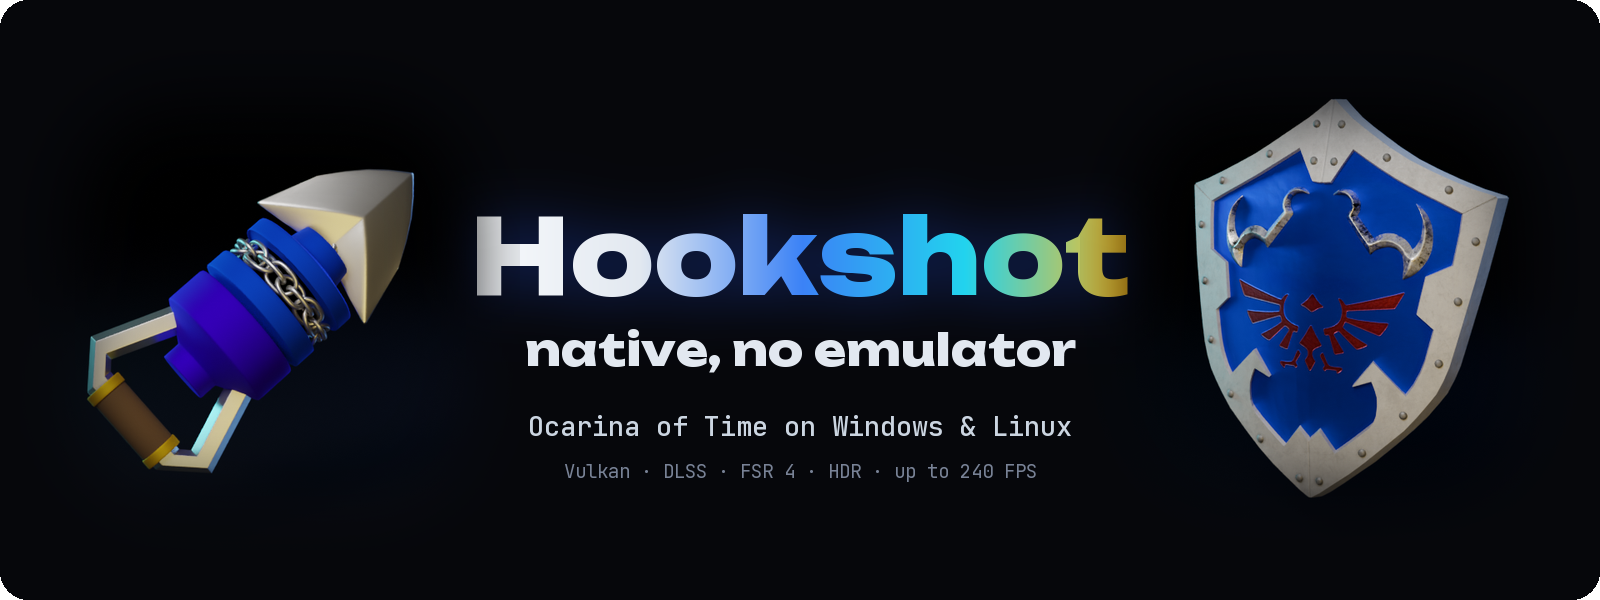
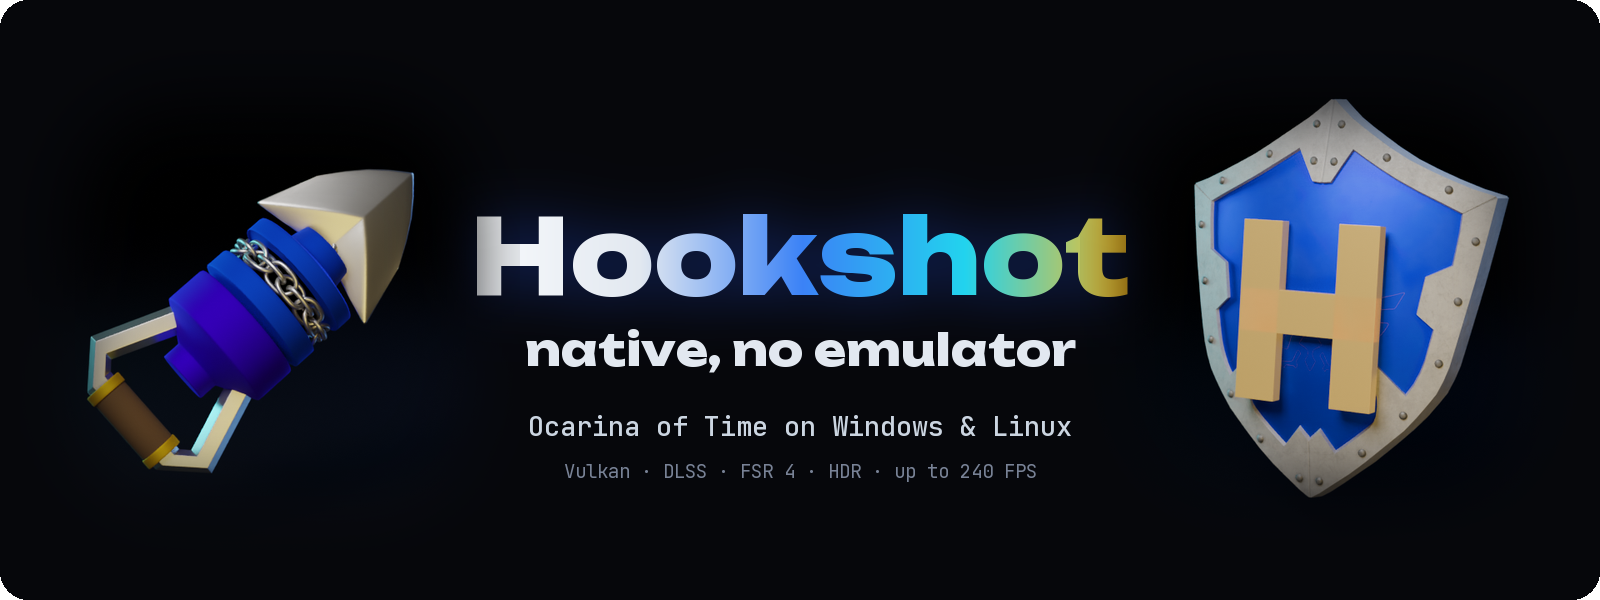
docs(readme): the header's shield carries the project's H, not the crest
The crest is Nintendo's mark: its mesh is left out of the render, its bird painted out of the face's texture in
memory, and a gold H stands in its place.

Changed region(s): [[0.75, 0.24, 0.9375, 0.72]]

diff --git a/scripts/render_emblem.py b/scripts/render_emblem.py
@@ -110,6 +110,54 @@ else:
     # stand it up when it lies flat, its face to the camera (-Y), leaning back a little
     thin = min(range(3), key=lambda i: dims[i])
     root.rotation_euler = (math.radians(90), 0, 0) if thin == 2 else (0, 0, math.radians(90)) if thin == 0 else (0, 0, 0)
+    bpy.context.view_layer.update()
+    # The project's own letter in the crest's place: the crest (and the three triangles in it) is Nintendo's mark, so
+    # its mesh is left out of the render and a gold H stands on the face instead.
+    for o in meshes:
+        if any("Triforce" in (s.material.name if s.material else "") for s in o.material_slots):
+            o.hide_render = True
+    # (the crest's bird is painted on the face's colour texture too: its red is painted over with the face's own blue,
+    #  in memory only, and the face's normal map, which embosses the same bird, is left out)
+    import numpy as np
+    for img in bpy.data.images:
+        if "main_d" in img.name.lower():
+            px = np.array(img.pixels[:], dtype=np.float32).reshape(-1, 4)
+            red = (px[:, 0] > px[:, 2] * 1.15) & (px[:, 0] > 0.2)
+            blue = (px[:, 2] > px[:, 0] * 1.6) & (px[:, 2] > 0.3)
+            if red.any() and blue.any():
+                px[red, :3] = np.median(px[blue, :3], axis=0)
+                img.pixels.foreach_set(px.reshape(-1))
+                img.update()
+                img.pack()   # (so the render takes these pixels, not the file's)
+                print("PAINTED OVER", int(red.sum()), "pixels of", img.name)
+    for mat in bpy.data.materials:
+        if "Base" in mat.name and mat.use_nodes:
+            for link in list(mat.node_tree.links):
+                if link.to_socket.name == "Normal" and link.to_node.type == "BSDF_PRINCIPLED":
+                    mat.node_tree.links.remove(link)
+    shown = [o for o in meshes if not o.hide_render]
+    front = min((o.matrix_world @ Vector(c)).y for o in shown for c in o.bound_box)
+    gold = bpy.data.materials.new("letter")
+    gold.use_nodes = True
+    gb = next(n for n in gold.node_tree.nodes if n.type == "BSDF_PRINCIPLED")
+    gb.inputs["Base Color"].default_value = (0.95, 0.66, 0.16, 1)
+    gb.inputs["Metallic"].default_value = 0.55   # (all metal, it mirrored the black studio and went dark)
+    gb.inputs["Roughness"].default_value = 0.32
+    gb.inputs["Emission Color"].default_value = (0.95, 0.6, 0.12, 1)
+    gb.inputs["Emission Strength"].default_value = 0.25
+    # the H: two posts and a bar, as boxes (a font's extruded outline came out with torn faces)
+    high, wide, stroke, deep = size * 0.44, size * 0.36, size * 0.105, size * 0.035
+    for x, w, h in ((-(wide - stroke) / 2, stroke, high), ((wide - stroke) / 2, stroke, high), (0, wide, stroke)):
+        bpy.ops.mesh.primitive_cube_add(size=1, location=(x, front - deep / 2, -size * 0.03))
+        part = bpy.context.object
+        part.scale = (w, deep, h)
+        bevel = part.modifiers.new("bevel", "BEVEL")
+        bevel.width, bevel.segments = size * 0.006, 3
+        part.data.materials.append(gold)
+        bpy.context.view_layer.update()
+        m = part.matrix_world.copy()
+        part.parent = root
+        part.matrix_world = m
     START = float(os.environ.get("EMBLEM_START", "-25"))
     turner.rotation_euler = (math.radians(-8), 0, math.radians(START))
 

diff --git a/scripts/make_hero.py b/scripts/make_hero.py
@@ -156,9 +156,9 @@ def main():
         # animated WebP, not GIF: a GIF's 256 colours band the wordmark's gradient and the renders' shading
         frames = [compose(base, Image.open(h), Image.open(s), mask).resize((1200, 450), Image.LANCZOS)
                   for h, s in zip(hooks, shields)]
-        out = BRAND / "header.webp"
+        out = BRAND / "banner.webp"
         frames[0].save(out, save_all=True, append_images=frames[1:], duration=a.frame_ms, loop=0, quality=86, method=6)
-        print("wrote header.webp: %d frames, %.0f KB" % (len(frames), out.stat().st_size / 1024))
+        print("wrote banner.webp: %d frames, %.0f KB" % (len(frames), out.stat().st_size / 1024))
 
 
 if __name__ == "__main__":

diff --git a/assets/brand/README.md b/assets/brand/README.md
@@ -4,7 +4,7 @@
 
 Two objects from the game the project runs, turning either side of the name: the Hookshot on the left, the Hyrule
 shield on the right. They are renders of fan-made 3D models, lit in one black studio with blue, cyan and gold rim
-lights; nothing is taken from the game's own files.
+lights; nothing is taken from the game's own files, and the shield's crest is replaced by the project's H.
 
 | Object | Model | Credit |
 |---|---|---|
@@ -14,6 +14,10 @@ lights; nothing is taken from the game's own files.
 The models are not in this repository: only the pictures rendered from them are. **To do:** add each model's page and
 licence here (neither download carried a licence file). The Hookshot, the shield and its crest are Nintendo's designs;
 this is fan art for an unofficial project.
+
+The shield does not carry its crest: `scripts/render_emblem.py` leaves the crest's mesh out, paints its bird out of
+the face's texture (in memory; the download is not changed) and stands a gold **H**, the project's letter, in its
+place.
 
 Rendered on 2026-11-14 in Blender 4.5 (Cycles, OptiX, RTX 5090), 96 samples, 600×600, 40 frames each:
 
@@ -26,7 +30,7 @@ Rendered on 2026-11-14 in Blender 4.5 (Cycles, OptiX, RTX 5090), 96 samples, 600
 | File | Size | Use |
 |---|---|---|
 | `emblem_hookshot.png`, `emblem_shield.png` | 600×600 | The first frame of each turn: what the still banner is built from |
-| `header.webp` | 1200×450, 40 frames, animated WebP | The README header: both objects turn once, and loop |
+| `banner.webp` | 1200×450, 40 frames, animated WebP | The README header: both objects turn once, and loop |
 | `hero.png` | 1600×600, rounded corners | The still banner |
 | `social-preview.png` | 1280×640 | GitHub's social preview (uploaded by hand in Settings) |
 | `icon.png` | 512×512, rounded square | Listings and avatars |

diff --git a/readme.md b/readme.md
@@ -1,5 +1,5 @@
 <p align="center">
-  <img src="assets/brand/header.webp" alt="Hookshot: Ocarina of Time running natively on Windows and Linux, with no emulator" width="800">
+  <img src="assets/brand/banner.webp" alt="Hookshot: Ocarina of Time running natively on Windows and Linux, with no emulator" width="800">
 </p>
 
 <p align="center">
